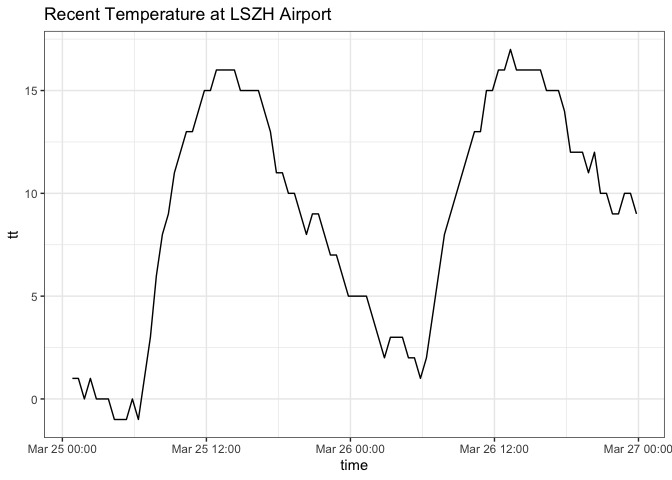
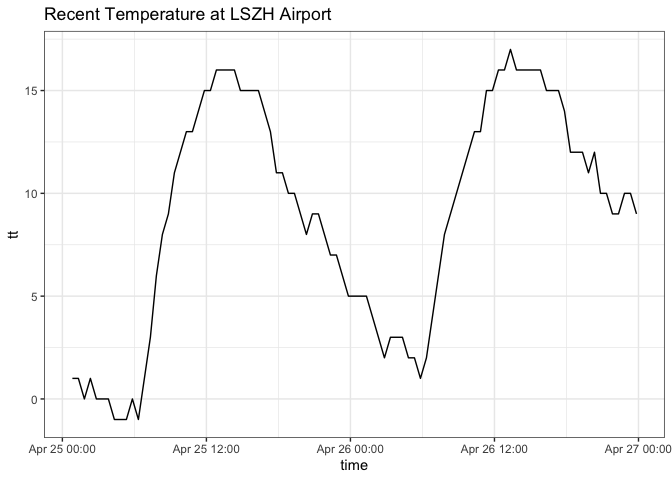
merge

diff --git a/README.md b/README.md
@@ -10,7 +10,7 @@ The goal of **metar** is to provide an R-built parser for METAR reports.
 And the development version from [GitHub](https://github.com/) with:
 
 ``` r
-# install.packages("devtools")
+# install.packages("devtools") 
 devtools::install_github("m-saenger/metar")
 ```
 
@@ -31,7 +31,7 @@ dat.parsed <- parse_metar(dat$metar)
 str(dat.parsed)
 #> Classes 'data.table' and 'data.frame':   94 obs. of  24 variables:
 #>  $ icao       : chr  "LSZH" "LSZH" "LSZH" "LSZH" ...
-#>  $ time       : POSIXct, format: "2021-03-25 00:50:00" "2021-03-25 01:20:00" ...
+#>  $ time       : POSIXct, format: "2021-04-25 00:50:00" "2021-04-25 01:20:00" ...
 #>  $ auto       : chr  "0" "0" "0" "0" ...
 #>  $ cor        : chr  "0" "0" "0" "0" ...
 #>  $ wx         : chr  "CAVOK" "CAVOK" "CAVOK" "CAVOK" ...
@@ -94,7 +94,7 @@ str(dat.cld)
 #>  $ cld_hgt_2  : num  NA NA NA NA NA NA NA NA NA NA ...
 #>  $ cld_type_1 : chr  NA NA NA NA ...
 #>  $ cld_type_2 : chr  NA NA NA NA ...
-#>  $ time       : POSIXct, format: "2021-03-25 00:50:00" "2021-03-25 01:20:00" ...
+#>  $ time       : POSIXct, format: "2021-04-25 00:50:00" "2021-04-25 01:20:00" ...
 #>  - attr(*, ".internal.selfref")=<externalptr>
 
 ggplot(dat.cld, aes(time, cld_hgt_1)) +
